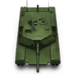
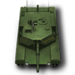
11_07_2014 : gần xong

Changed region(s): [[0.2667, 0.0533, 0.9067, 1.0]]

diff --git a/src/battletank/DrawBattleScreen.java b/src/battletank/DrawBattleScreen.java
@@ -36,6 +36,9 @@ public class DrawBattleScreen  extends JComponent{
          g.drawImage( Asset.fire.getImage() , (game.getTeamA().getTanks()[i].getPosition().getX()-1) *CELL_UNIT,( game.getTeamA().getTanks()[i].getPosition().getY()-1) *CELL_UNIT, this);
        
             }
+            else // dead
+                   g.drawImage( Asset.dead.getImage() ,  (game.getTeamA().getTanks()[i].getPosition().getX()-1) *CELL_UNIT, (game.getTeamA().getTanks()[i].getPosition().getY()-1) *CELL_UNIT, this);
+          
             i++;
         }
      i = 0 ; 
@@ -48,6 +51,9 @@ public class DrawBattleScreen  extends JComponent{
          g.drawImage( Asset.fire.getImage() , (game.getTeamB().getTanks()[i].getPosition().getX()-1) *CELL_UNIT,( game.getTeamB().getTanks()[i].getPosition().getY()-1) *CELL_UNIT, this);
        
             }
+            else //dead
+                   g.drawImage( Asset.dead.getImage() ,  (game.getTeamB().getTanks()[i].getPosition().getX()-1) *CELL_UNIT, (game.getTeamB().getTanks()[i].getPosition().getY()-1) *CELL_UNIT, this);
+          
             i++;
         }
     

diff --git a/src/battletank/AutoGameScreen.java b/src/battletank/AutoGameScreen.java
@@ -69,8 +69,8 @@ public class AutoGameScreen extends javax.swing.JFrame {
 
         setDefaultCloseOperation(javax.swing.WindowConstants.EXIT_ON_CLOSE);
         setMaximumSize(new java.awt.Dimension(1200, 900));
-        setMinimumSize(new java.awt.Dimension(1200, 650));
-        setPreferredSize(new java.awt.Dimension(1200, 650));
+        setMinimumSize(new java.awt.Dimension(1200, 750));
+        setPreferredSize(new java.awt.Dimension(1200, 750));
         addMouseMotionListener(new java.awt.event.MouseMotionAdapter() {
             public void mouseMoved(java.awt.event.MouseEvent evt) {
                 formMouseMoved(evt);
@@ -154,7 +154,7 @@ public class AutoGameScreen extends javax.swing.JFrame {
     private void formWindowOpened(java.awt.event.WindowEvent evt) {//GEN-FIRST:event_formWindowOpened
        
         battleScreen = new DrawBattleScreen(game);
-        battleScreen.setLocation(300, 0);
+        battleScreen.setLocation(300, 50);
         battleScreen.setSize(800, 800);
         battleScreen.setBackground(Color.white);
         battleScreen.setVisible(true);

diff --git a/src/battletank/Asset.java b/src/battletank/Asset.java
@@ -28,6 +28,7 @@ public  class Asset {
      public static String path_tankA = path_asset+"tankAmd.png" ;
        public static String path_tankB = path_asset+"tankBmd.png" ;
         public static String path_fire = path_asset+"firemd.png" ;
+          public static String path_dead = path_asset+"dead.png" ;
        
     // image
    
@@ -36,4 +37,6 @@ public  class Asset {
      public static MyImage tankA = new MyImage(path_tankA);
       public static MyImage tankB = new MyImage(path_tankB);
             public static MyImage fire = new MyImage(path_fire);
+              public static MyImage dead = new MyImage(path_dead);
+
 }
